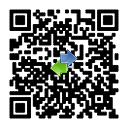
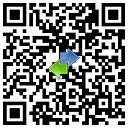
优化下载逻辑，添加ios版下载

diff --git a/src/server/www/download.html b/src/server/www/download.html
@@ -3,28 +3,27 @@
 <head>
 <meta http-equiv="Content-Type" content="text/html; charset=utf-8" />
 <title>下载Psychokinesis</title>
+<script src="js/util.js"></script>
 <script type="text/javascript">
-	var isMobile = {
-		Android: function() {
-			return navigator.userAgent.match(/Android/i);
-		},
-		iOS: function() {
-			return navigator.userAgent.match(/iPhone|iPad|iPod/i);
-		},
-		Windows: function() {
-			return navigator.userAgent.match(/IEMobile/i);
-		}
+	window.onload = function() {
+		var show_unknown_type = function(know) {
+			if (!know) {
+				document.getElementById("unknown_type").style.display = "inline";
+			}
+		};
+		
+		if (isMobile.Android())
+			download_app('android', show_unknown_type);
+		else if (isMobile.iOS())
+			download_app('ios', show_unknown_type);
+		else if (isMobile.Windows())
+			download_app('wp', show_unknown_type);
+		else if (navigator.userAgent.match(/Windows/i))
+			download_app('windows', show_unknown_type);
 	};
-	
-	if (isMobile.Android()) {
-		window.location.href = "Psychokinesis.apk";
-	} else if (isMobile.iOS()) {
-		window.location.href = "index.html";
-	} else if (isMobile.Windows()) {
-		window.location.href = "http://www.windowsphone.com/s?appid=00acc51c-ff96-419a-b0da-1736fd378f1b";
-	} else {
-		window.location.href = "index.html";
-	}
 </script>
 </head>
+<body>
+	<h1 id="unknown_type" style="display:none">适合您设备的Psychokinesis正在开发中，谢谢关注！</h1>
+</body>
 </html>

diff --git a/src/server/www/default.html b/src/server/www/default.html
@@ -10,22 +10,22 @@
 				<legend>下载</legend>
 				<h4>PC端：</h4>
 				<div id="desktop-download-link">
-					<a target="_self" href="psychokinesis.exe" class="image-button bg-darkGreen fg-white image-left large">
+					<a ng-click="download('windows');" class="image-button bg-darkGreen fg-white image-left large">
 						<i class="icon-windows bg-green fg-white" style="padding:10px"></i>
 						Windows版
 					</a>
 				</div><br/><br/><br/><br/>
 				<h4>移动端：</h4>
 				<div id="mobile-download-link">
-					<a target="_self" href="Psychokinesis.apk" class="image-button bg-lightBlue fg-white image-left large">
+					<a ng-click="download('android');" class="image-button bg-lightBlue fg-white image-left large">
 						<i class="icon-android bg-blue" style="padding:10px"></i>
 						Android版
 					</a>
-					<!--<a target="_self" href="Psychokinesis.ipa" class="image-button bg-cyan fg-white image-left large">
+					<a ng-click="download('ios');" class="image-button bg-cyan fg-white image-left large">
 						<i class="icon-apple bg-lightTeal" style="padding:10px"></i>
 						iOS版
-					</a>-->
-					<a target="_self" href="psychokinesis.xap" class="image-button bg-darkGreen fg-white image-left large">
+					</a>
+					<a ng-click="download('wp');" class="image-button bg-darkGreen fg-white image-left large">
 						<i class="icon-windows bg-green fg-white" style="padding:10px"></i>
 						Windows Phone版
 					</a>

diff --git a/src/server/www/js/util.js b/src/server/www/js/util.js
@@ -32,3 +32,38 @@ function convert_error_string(error_code) {
 		return '操作失败了！请稍后再试。';
 	}
 }
+
+var isMobile = {
+	Android: function() {
+		return navigator.userAgent.match(/Android/i);
+	},
+	iOS: function() {
+		return navigator.userAgent.match(/iPhone|iPad|iPod/i);
+	},
+	Windows: function() {
+		return navigator.userAgent.match(/IEMobile/i);
+	}
+};
+
+function download_app(type, cb) {
+	if (type == 'android') {
+		if (cb)
+			cb(true);
+		window.location.href = '/Psychokinesis.apk';
+	} else if (type == 'wp') {
+		if (cb)
+			cb(true);
+		window.location.href = 'http://www.windowsphone.com/s?appid=00acc51c-ff96-419a-b0da-1736fd378f1b';
+	} else if (type == 'ios') {
+		if (cb)
+			cb(true);
+		window.location.href = 'https://itunes.apple.com/cn/app/psychokinesis/id898639199?mt=8';
+	} else if (type == 'windows') {
+		if (cb)
+			cb(true);
+		window.location.href = '/psychokinesis.exe';
+	} else {
+		if (cb)
+			cb(false);
+	}
+}

diff --git a/src/server/www/js/app.js b/src/server/www/js/app.js
@@ -1,5 +1,6 @@
 angular.module('psychokinesis', ['ngRoute'])
 		.controller('DefaultController', function($scope, $route, $routeParams, $location) {
+			$scope.download = download_app;
 		})
 		.controller('SuggestController', function($scope, $route, $routeParams, $location) {
 			$scope.isUnchanged = function(suggestion) {
